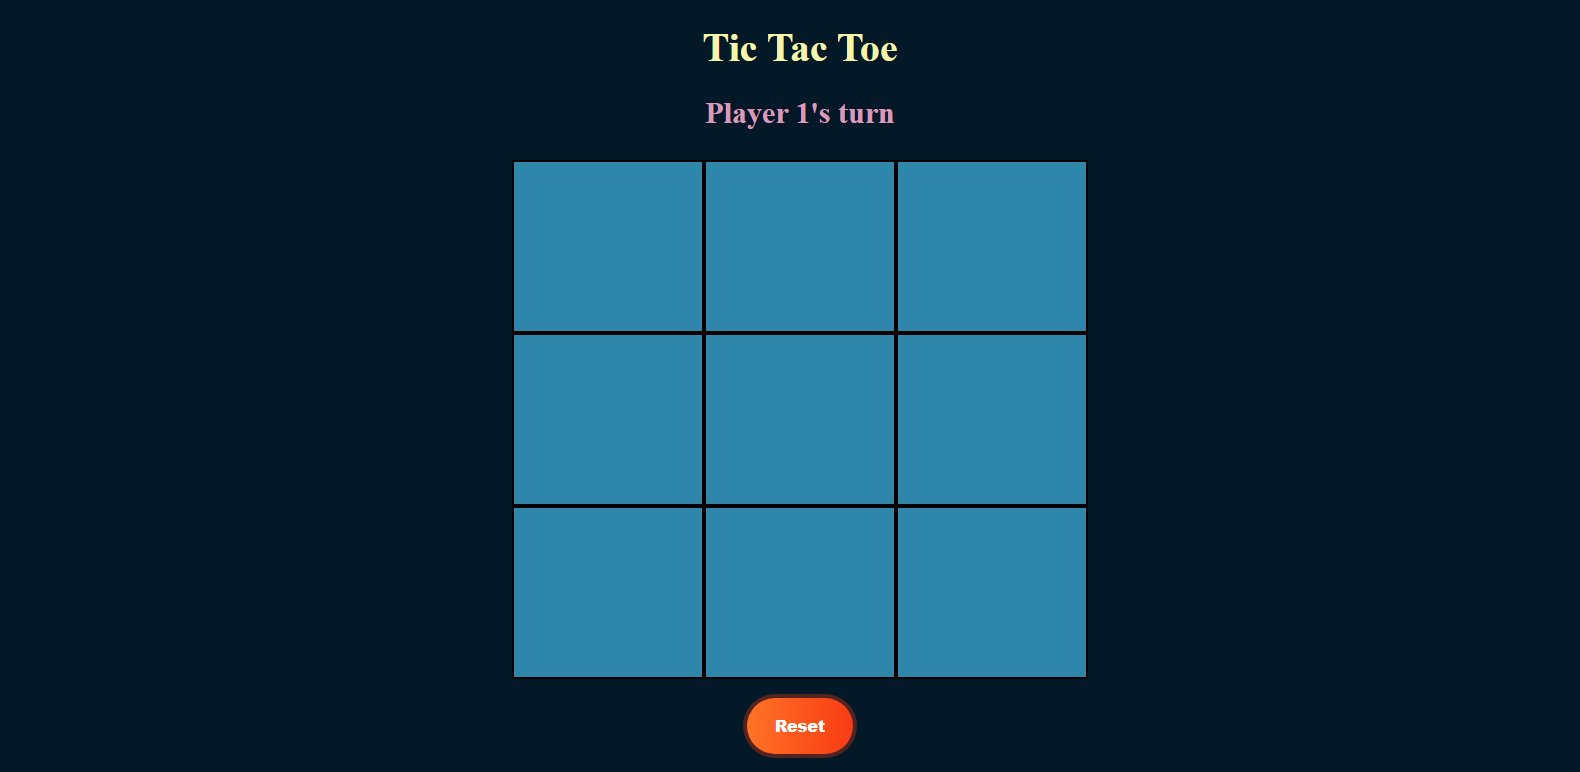
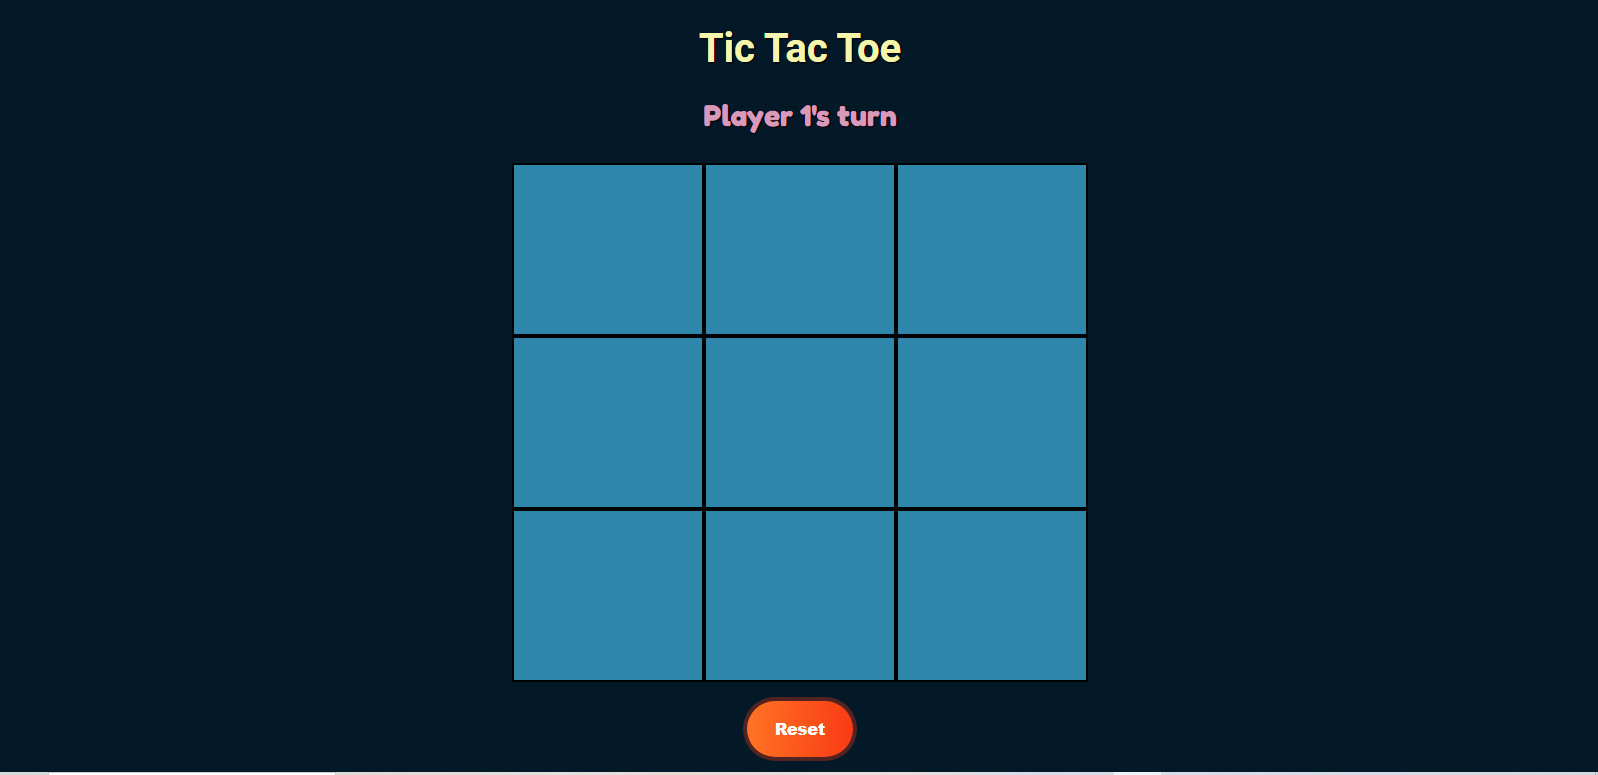
Changed Heading Colors

Changed region(s): [[0.3101, 0.1244, 0.7133, 0.8705], [0.0, 0.9016, 1.0, 1.0], [0.4342, 0.0311, 0.5892, 0.0933]]

diff --git a/index.html b/index.html
@@ -138,9 +138,11 @@
                             <div class="project-info">
                                 <h3 class="project-title">Gym Website</h3>
                                 <p class="project-description">A modern and responsive website for a gym or fitness
-                                    center. It includes information about services, classes, facilities, faqs and contact
+                                    center. It includes information about services, classes, facilities, faqs and
+                                    contact
                                     details.</p>
-                                <a href="https://get-lean-gym.netlify.app/" target="_blank"><button type="button" class="btn project-link">View
+                                <a href="https://get-lean-gym.netlify.app/" target="_blank"><button type="button"
+                                        class="btn project-link">View
                                         Project</button></a>
                             </div>
                         </div>
@@ -152,8 +154,8 @@
                                 <h3 class="project-title">Hotel Website</h3>
                                 <p class="project-description">A visually appealing website for a hotel or resort. It
                                     showcases rooms, amenities,etc.</p>
-                                <a href="https://saad0095.github.io/ComfortNook-Hotel/" target="_blank"><button type="button"
-                                        class="btn project-link">View Project</button></a>
+                                <a href="https://saad0095.github.io/ComfortNook-Hotel/" target="_blank"><button
+                                        type="button" class="btn project-link">View Project</button></a>
                             </div>
                         </div>
                     </div>
@@ -164,7 +166,8 @@
                                 <h3 class="project-title">Tic-Tac-Toe Game</h3>
                                 <p class="project-description">A classic game of Tic-Tac-Toe built using HTML, CSS, and
                                     JavaScript.</p>
-                                <a href="https://saad0095.github.io/Tic-Tac-Toe-Game/" target="_blank"><button type="button" class="btn project-link">View
+                                <a href="https://saad0095.github.io/Tic-Tac-Toe-Game/" target="_blank"><button
+                                        type="button" class="btn project-link">View
                                         Project</button></a>
                             </div>
                         </div>
@@ -217,13 +220,7 @@
 
         <!-- Skills Section End -->
 
-        <!-- Contact Section Start -->
-
-        <section id="contact">
-
-        </section>
-
-        <!-- Contact Section End -->
+        <hr class="container text-white">
 
     </main>
 

diff --git a/style.css b/style.css
@@ -183,6 +183,11 @@ a {
     box-shadow: 0 4px 6px rgba(0, 0, 0, 0.1);
 }
 
+.project h1 {
+    color: var(--primary-heading-color);
+
+}
+
 .project img {
     width: 100%;
     height: auto;
@@ -227,7 +232,7 @@ a {
 }
 
 .section-title {
-    color: var(--primary-color);
+    color: var(--primary-heading-color);
 
 }
 
@@ -268,8 +273,6 @@ a {
 .progress:hover .progress-bar {
     width: 100%;
 }
-
-
 
 /* Footer */
 
